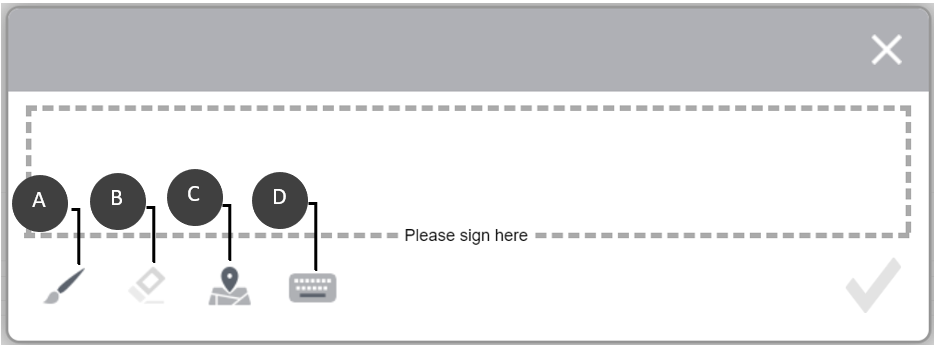
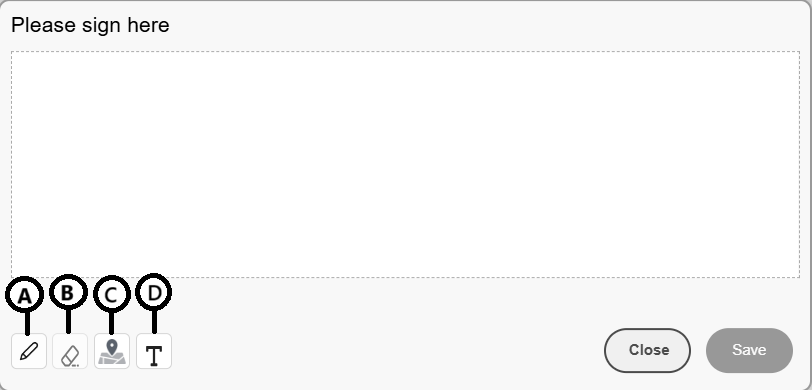
added content for scribble signature

diff --git a/help/adaptive-forms/components/scribble-signature.md b/help/adaptive-forms/components/scribble-signature.md
@@ -10,17 +10,16 @@ A Scribble Signature component in an Adaptive Form is a user interface element t
 
 **Example**
 
-![example](/help/adaptive-forms/assets/scribble-signature.png)
+![example](/help/adaptive-forms/assets/scribble-signature.png){width=50%,align-center}
 
+**Various Options available in Signature Window**
 
-## Various Options available in Signature Window
-
-* **A:** Click the **Paint Brush** icon to draw your signature on canvas.
+* **A:** Click the **Draw** icon to draw your signature on canvas.
 * **B:** Click the **Clear** icon to clear the signature on canvas.
 * **C:** Click the **Geolocation** icon to add geolocation along with the signature.
 * **D:** Click the **Keyboard** icon to type your name on canvas. 
 
- Once you select the **Done** icon in Scribble signature window, you cannot edit the signature. In case, if you want to edit the signature, you have to disregard the current signature and re-sign using the above Paint Brush/Keyboard option.
+ Once you select the **Save** icon in Scribble signature window, you cannot edit the signature. In case, if you want to edit the signature, you have to disregard the current signature and re-sign using the above Paint Brush/Keyboard option.
 
 >[!NOTE]
 >
@@ -67,39 +66,26 @@ The Configure Dialog allows customization of the Scribble Signature component.
      ![Rich text support](/help/adaptive-forms/assets/richtext-support-title.png)
 
 -   **Hide Title** - Select this option to hide title of the component type in an Adaptive Form.
+- **Placeholder text** - Placeholder text in a form component refers to a short label or prompt that appears within an input field as a hint to the user on what type of information is expected to be entered in that field. Placeholder text disappears when the user starts typing into the field and reappears if the field is left empty. It provides a visual cue to the user, but does not act as a permanent label or value for the field.
+
+- **Bind Reference** - A bind reference is a reference to a data element that is stored in an external data source and used in a form. The bind reference allows you to dynamically bind data to form fields, so that the form can display the most up-to-date data from the data source. For example, a bind reference can be used to display a customer's name and address in a form, based on the customer's ID entered into the form. The bind reference can also be used to update the data source with data entered into the form. In this way, AEM Forms enable you to create forms that interact with external data sources, providing a seamless user experience for collecting and managing data.
+
+- **Mark as Unbound Form Element**: Select the option to configure a form field not linked to any schema. This option allows you to save data without updating the data source. It also enables you to handle data in a custom way, separate from standard database integration.
+
+-   **Hide Component** - Select the option to hide the component from the form. The component remains accessible for other purposes, such as using it for calculations in the Rule Editor. This is useful when you need to store information that doesn't need to be seen or directly changed by the user. 
+-   **Disable Component** - Select the option to disable the component. The disabled component is not active or editable by the end user. The user can see the value of the field but cannot modify it. The component remains accessible for other purposes, such as using it for calculations in the Rule Editor.
+
+- **Signature Dialog Title**: Signature Dialog Title defines the text displayed at the top of the signature capture dialog. It serves as a prompt or instruction for the user when they are required to provide a signature. The text helps guide the user through the signing process, making the interaction clear and intuitive.
+
+### Validation Tab
+
+![validation tab](/help/adaptive-forms/assets/scribble-signature-validation.png)
 
 -   **Required** - Select this option, if you want to display the component in an Adaptive Form. After selecting the option, you must make a selection before proceeding with a form submission. You cannot select the **Hide Component** or **Disable Component** in the **Basic** tab when this option is selected.
 
 -   **Error Message** - This option allows you to enter a message that is displayed if the **Required** checkbox is checked and the form field is left blank.
 
-- **Bind Reference** - A bind reference is a reference to a data element that is stored in an external data source and used in a form. The bind reference allows you to dynamically bind data to form fields, so that the form can display the most up-to-date data from the data source. For example, a bind reference can be used to display a customer's name and address in a form, based on the customer's ID entered into the form. The bind reference can also be used to update the data source with data entered into the form. In this way, AEM Forms enable you to create forms that interact with external data sources, providing a seamless user experience for collecting and managing data.
-
--   **Hide Component** - Select the option to hide the component from the form. The component remains accessible for other purposes, such as using it for calculations in the Rule Editor. This is useful when you need to store information that doesn't need to be seen or directly changed by the user. 
--   **Disable Component** - Select the option to disable the component. The disabled component is not active or editable by the end user. The user can see the value of the field but cannot modify it. The component remains accessible for other purposes, such as using it for calculations in the Rule Editor.
-
--   **Aspect Ratio** - Specifies the ratio of width to height for the Scribble Signature area. This ensures the signature box maintains the desired proportions. For example, a value of `6.8888` keeps the width-to-height ratio consistent across different screen sizes. You can select the **Configure** icon to set the aspect ratio of Scribble Signature canvas. 
-    * When the aspect ratio of the Scribble Signature canvas is less than 1, the geolocation information is added at the bottom of the Scribble Signature canvas.
-
-    * When the aspect ratio of the Scribble Signature canvas is more than 1, the geolocation information is added to the right-side of the Scribble Signature canvas. 
- 
-      ![scribble signature-bottom](/help/adaptive-forms/assets/scribble-signature-aspectratio.PNG)
-
--   **Field Layout** - Determines how the caption and error messages are displayed in relation to the Scribble Signature widget. The available options are:
-    -   **Caption and error on top of widget** - Places the label and error message above the signature box.
-    -   **Inherit From Adaptive Form Configuration** - Applies the layout defined in the Adaptive Form configuration.
-
--   **CSS Class** - Allows you to apply a custom CSS class to the Scribble Signature component. This helps in applying custom styles to align with the branding or design requirements of your form.
-
-
-
-### Document of Record Tab {#dor-tab}
-
-![DoR tab](/help/adaptive-forms/assets/scribble-signature-validation.png)
-
-
-- **Exclude from Document of Record**: Select this option to exclude the Scribble Signature component from the generated Document of Record (DoR). Use this when the signature field is only required during form submission but should not appear in the final DoR output.
-
-- **Colspan for Document of Record**: Enter the number of columns the Scribble Signature component should span in the Document of Record (DoR). This property is supported only for **Column layout** in the Document of Record. Increasing the colspan allows the signature box to occupy more space across the columns, ensuring the captured signature is displayed clearly and proportionally in the final document.
+-   **Script Validation Message** - This option allows you to enter a message to be displayed if the script validation fails.
 
 ### Help Content Tab {#help-content-tab}
 
@@ -130,7 +116,7 @@ Design Dialog is used to define and manage CSS styles for the Scribble Signature
 
 The tab is used to define and manage CSS styles for a component. The Adaptive Forms Scribble Signature Core Component supports the AEM [Style System](/help/get-started/authoring.md#component-styling).
 
-![Style tab](/help/adaptive-forms/assets/scribble-signature-styletab.png)
+![Design Dialog](/help/adaptive-forms/assets/checkbox-style.png)
 
 - **Default CSS Classes**: You can provide a default CSS class for the Adaptive Forms Scribble Signature Core Component. 
 
@@ -138,7 +124,7 @@ The tab is used to define and manage CSS styles for a component. The Adaptive Fo
 
 ### Custom Properties 
 
-![Custom Properties Dialog](/help/adaptive-forms/assets/scribble-signature-customproperties.png)
+![Custom Properties Dialog](/help/adaptive-forms/assets/checkbox-customproperties.png)
 
 Custom properties allows you to associate custom attributes (key-value pairs) to an Adaptive Form core component using the form template. The custom properties are reflected in the properties section of the headless rendition of the component. It allows creating dynamic form behavior that adapts based on the custom attributes values. For example, developers can design various renditions of a Headless Forms component for mobile, desktop, or web platforms, significantly enhancing the user experience across a wide array of devices.
 
